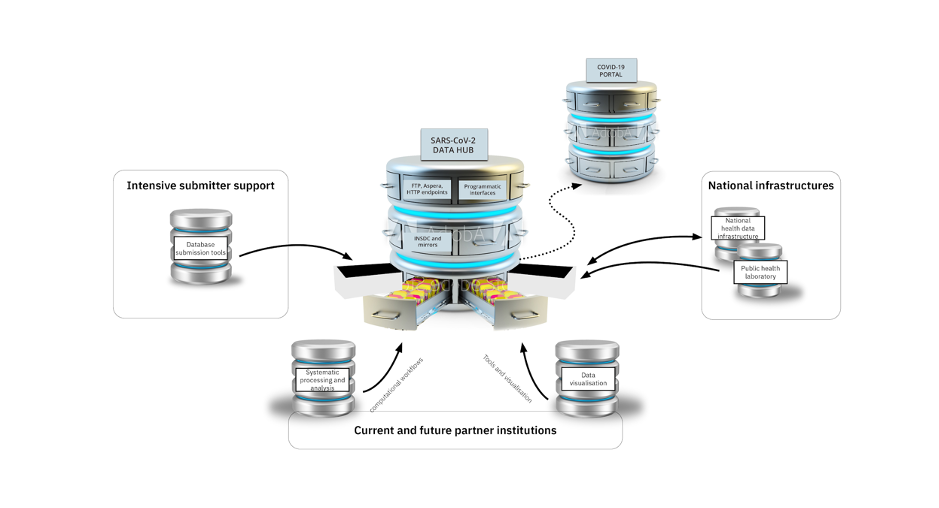
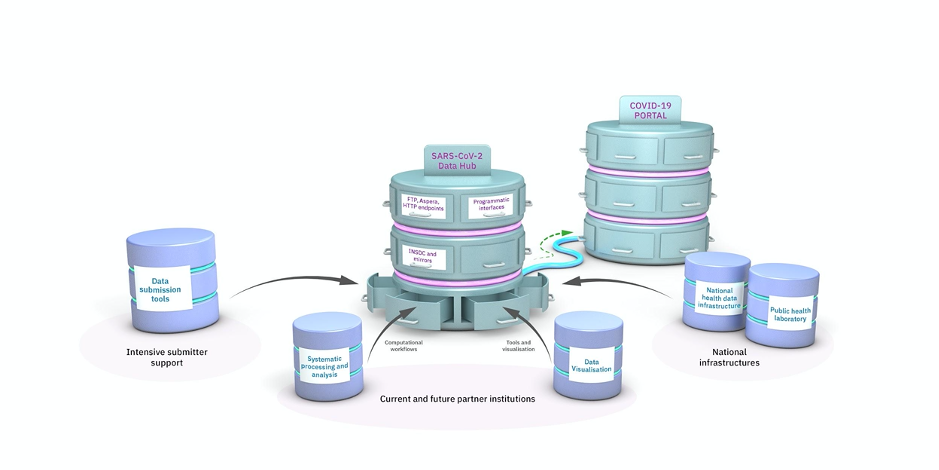
add images to covid-19 pages

Changed region(s): [[0.1235, 0.0894, 0.8956, 0.8638], [0.1235, 0.7447, 0.2162, 0.8043]]

diff --git a/src/covid-19/action-plan/index.html b/src/covid-19/action-plan/index.html
@@ -153,11 +153,9 @@
     For rapid launch, we will assemble, extend and enhance existing elements of informatics infrastructure leveraging initially the key strengths of EMBL-EBI. These strengths are based upon molecular biology data infrastructure and services that EMBL-EBI provides, and its unique position in offering connectivity with national public health data infrastructures, to the EOSC and relevant European Research Infrastructures and research projects, as well as International and National Research organisations.
   </p>
 
-<!-- 
   <p>
     <img style="width:100%" src="/covid-19/Picture2.png">
   </p>
--->
 
   <p>
     The SARS-CoV-2 Data Hubs will form one of the two components of the European COVID-19 Data Platform. These will be built upon existing EMBL-EBI infrastructure, and we will offer SARS-CoV-2 Data Hubs to those public health agencies and other scientific groups responsible for generating sequence from the virus at national or regional levels. It is expected that there will ultimately be numerous SARS-CoV-2 Data Hubs with similar configurations in terms of analysis, but different preferred submission tools.
@@ -173,11 +171,9 @@
     As the second component of the European COVID-19 Data Platform, EMBL-EBI plans to launch a COVID-19 Portal to provide the primary entry point into the functions of the European COVID-19 Data Platform and the data and tools that it makes available. To rapidly populate the COVID-19 Portal and make it immediately useful we will bring together and continuously update in a first step all relevant COVID-19 datasets from EMBL-EBI data resources.
   </p>
 
-<!-- 
   <p>
     <img style="width:100%" src="/covid-19/Picture3.png">
   </p>
--->
 
   <p>
     This will be followed by enriching the COVID-19 Portal with datasets and tools from EU projects, in which EMBL-EBI is a partner, and then through our ELIXIR network and last but not least, additional European stakeholders and on leveraging our international connections with major bioinformatics data and service providers across the globe.

diff --git a/src/covid-19/index.html b/src/covid-19/index.html
@@ -177,11 +177,9 @@
   </li>
 </ul>
 
-<!-- 
 <p>
   <img style="width:100%" src="/covid-19/Picture1.png">
 </p>
--->
 
 <h2>
   COVID-19 Portal - next steps
